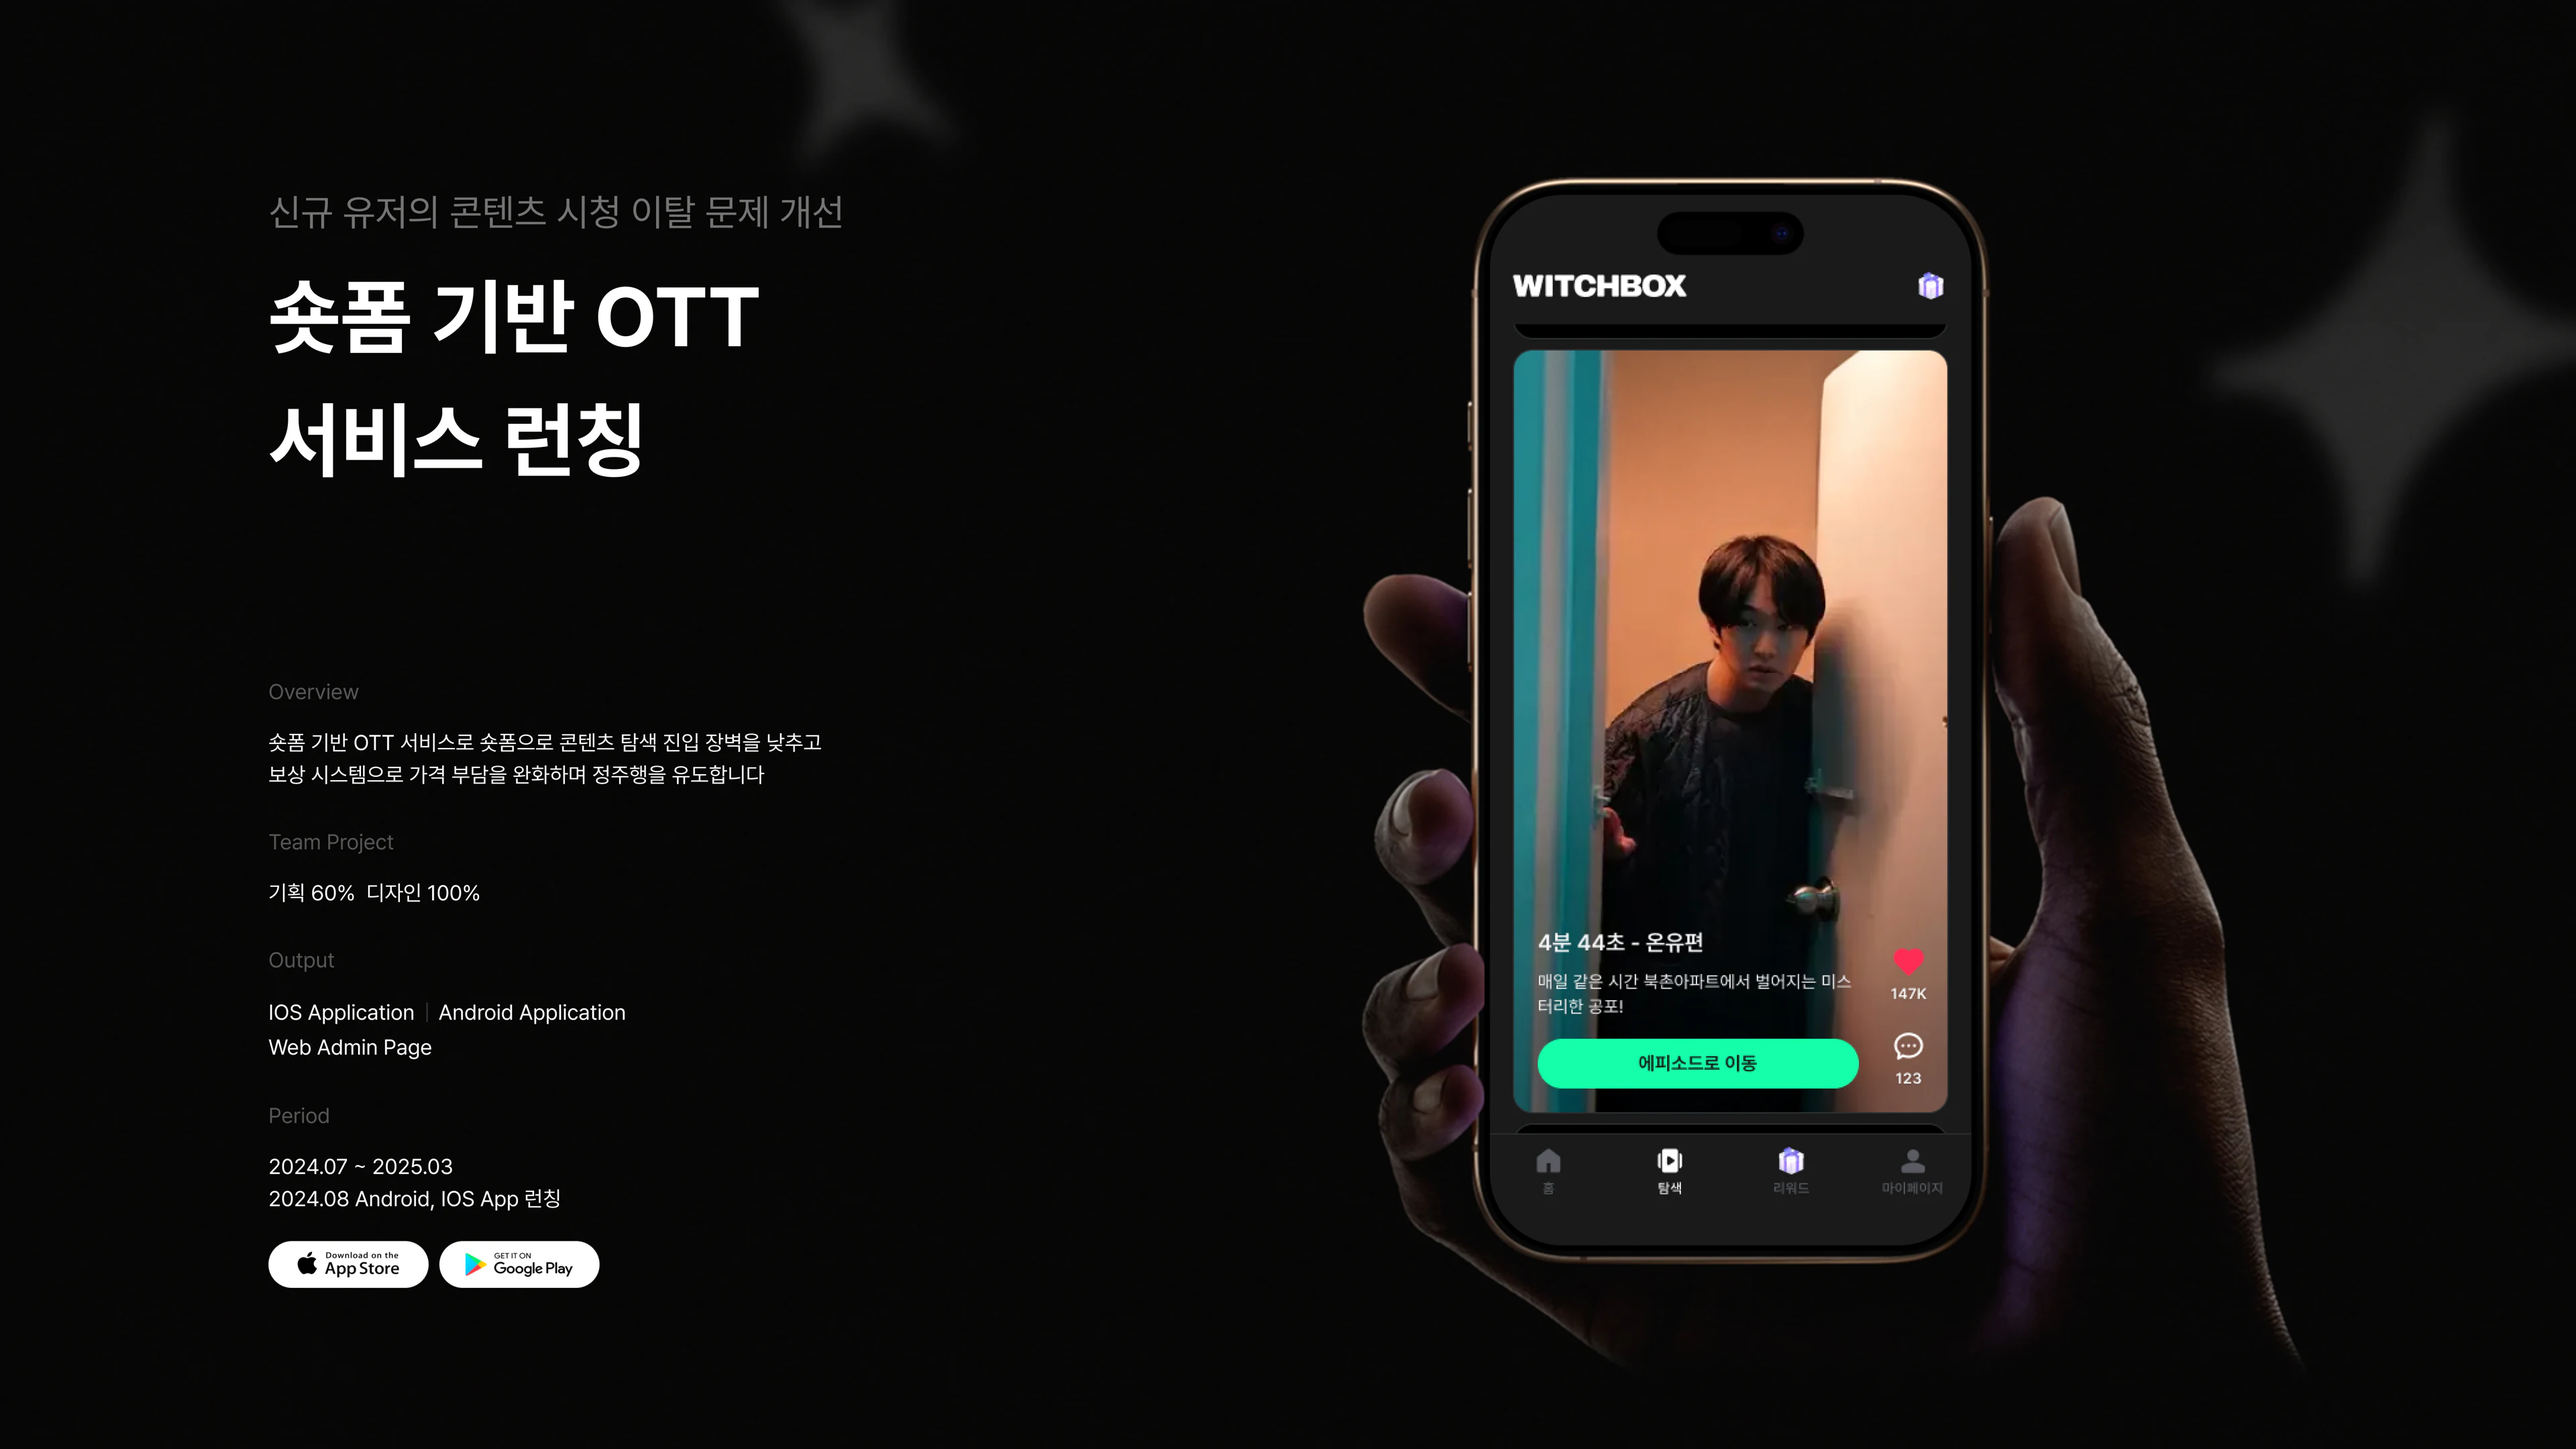
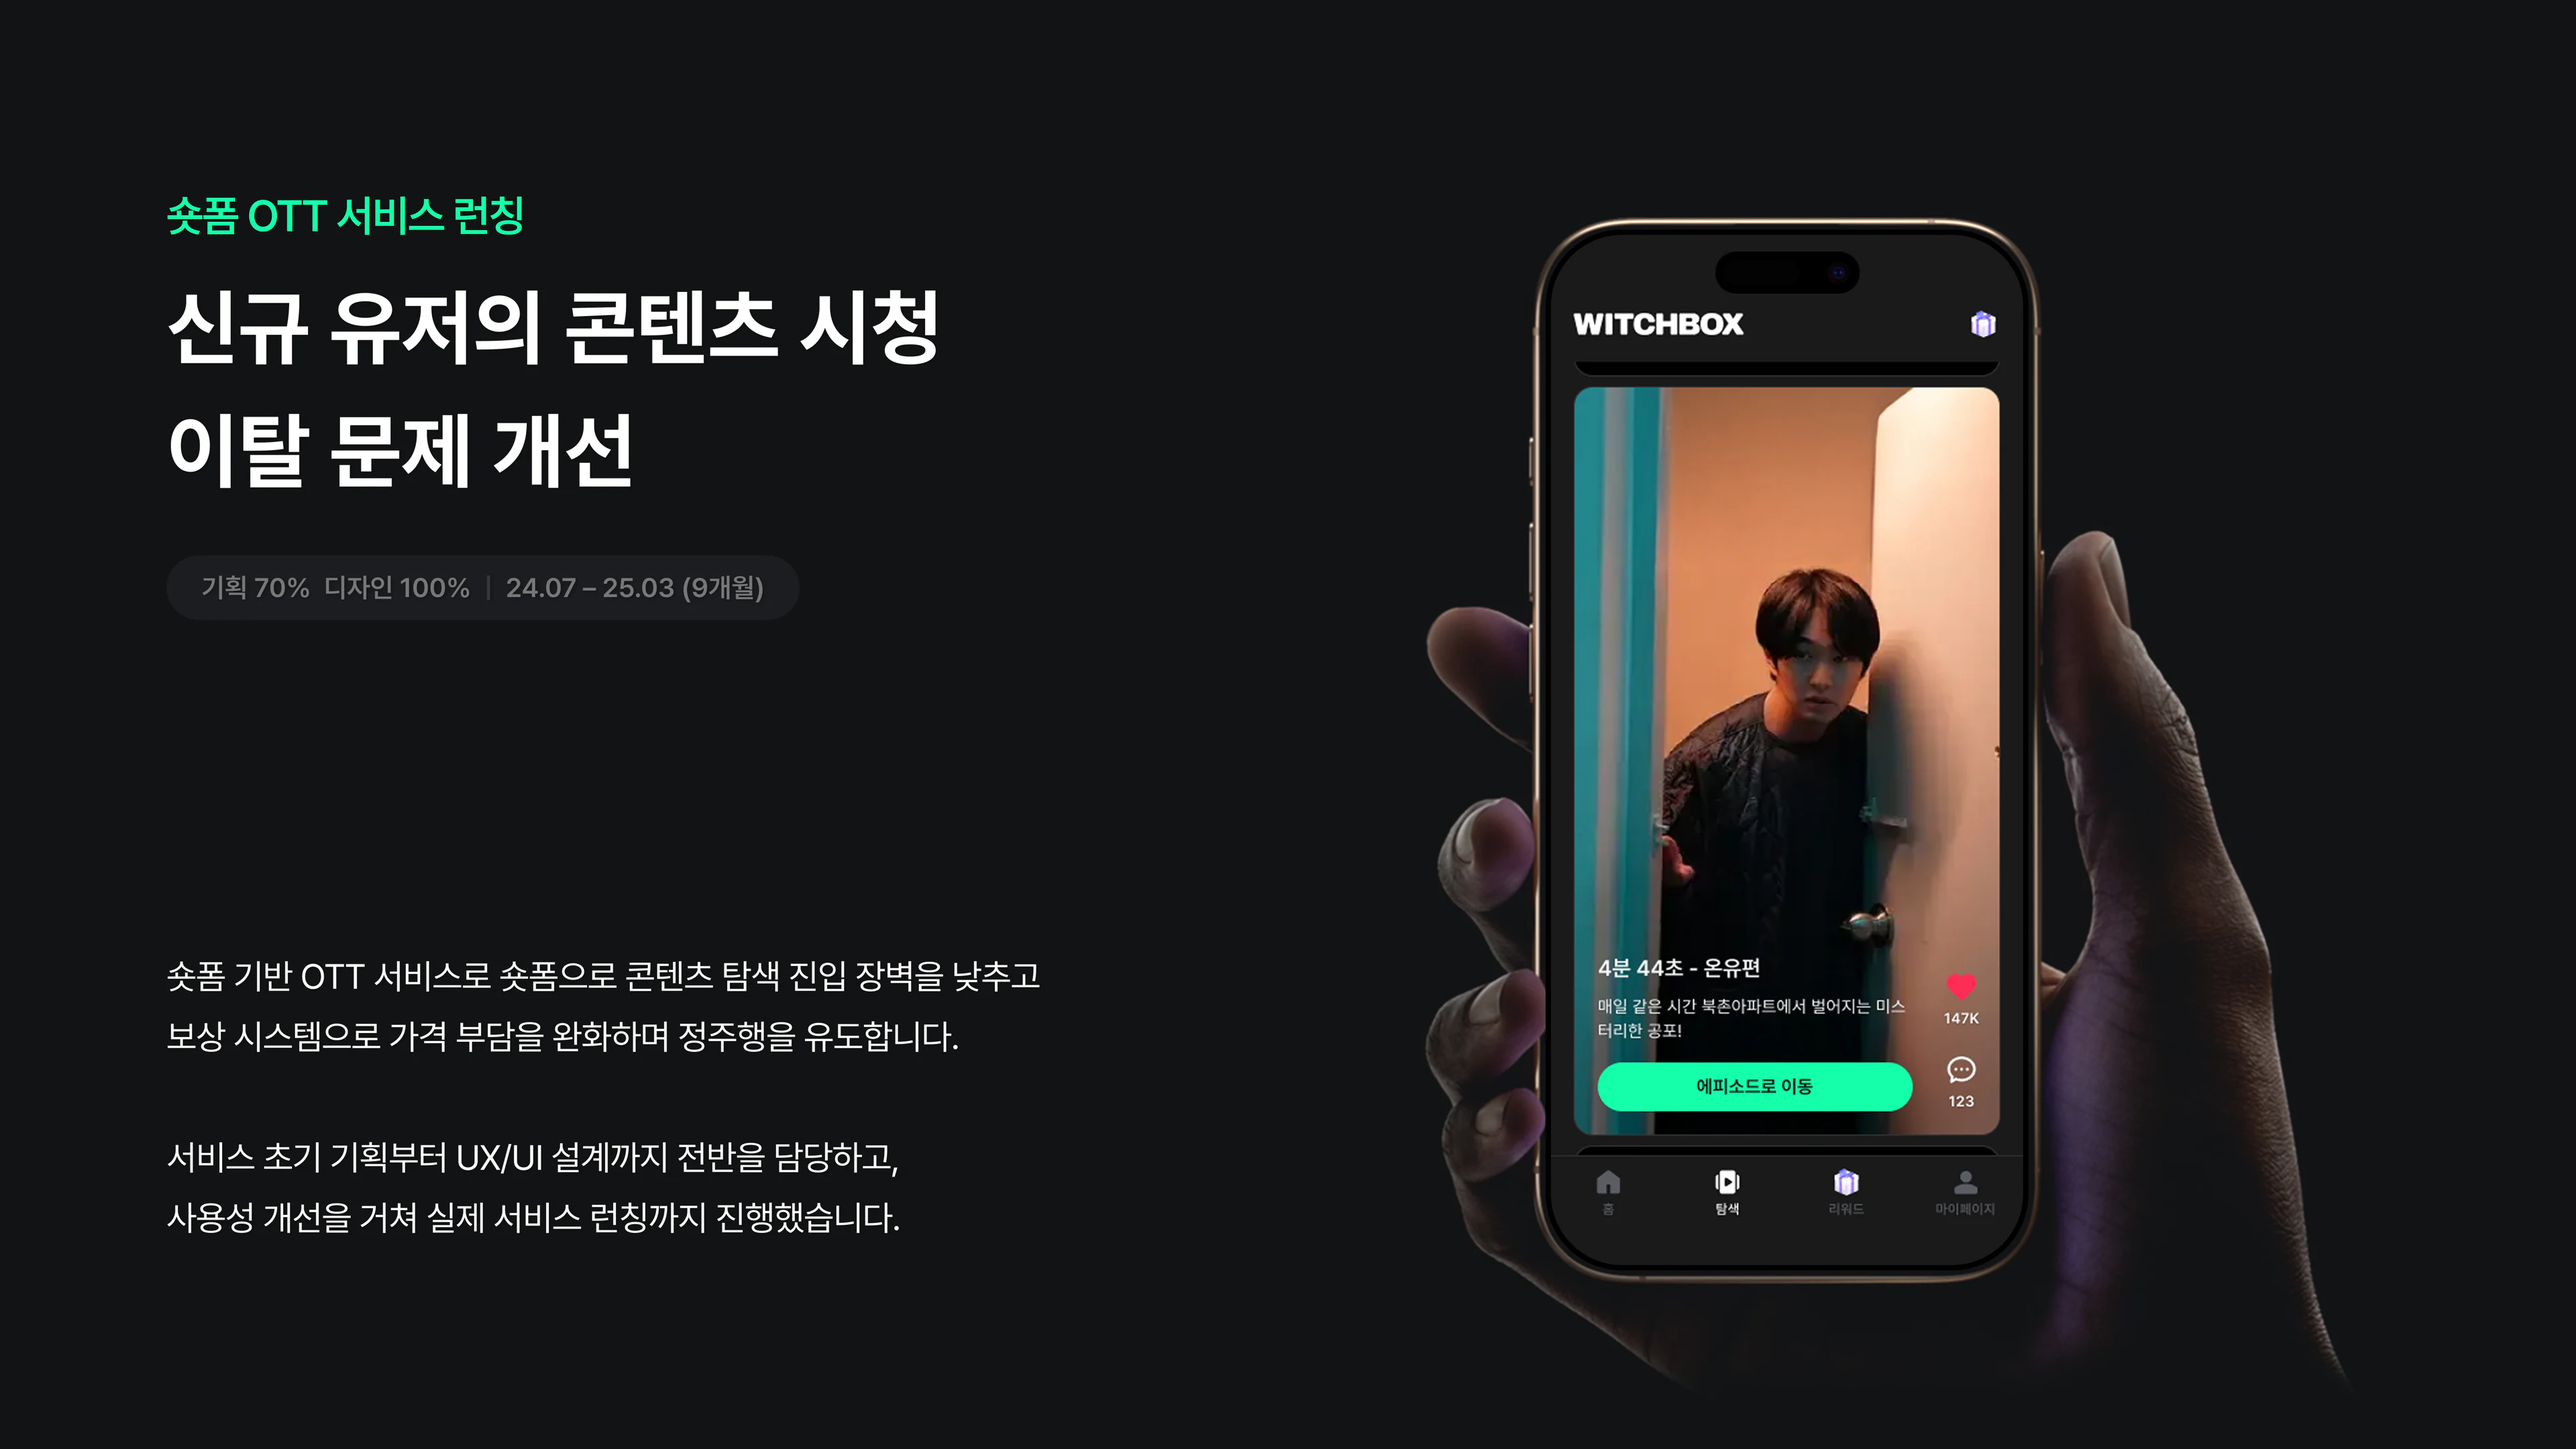
01·02·03 영역 1번 슬라이드를 신규 PNG 기준으로 교체
- 새로 받은 7680x4320 PNG 를 3840px WebP(q88, sharp_yuv) 로 변환해 교체
- 변환 손실은 원본 PNG 대비 0.008% 이하로 확인
- 나머지 슬라이드(01:21 / 02:18 / 03:20 / 04:33장)와 레이아웃은 손대지 않음
- 동일 파일명이라 ?v= 쿼리를 20261007e 로 올려 캐시 무효화

diff --git a/index.html b/index.html
@@ -26,7 +26,7 @@
 <link rel="preconnect" href="https://fonts.gstatic.com" crossorigin>
 <link href="https://fonts.googleapis.com/css2?family=Rethink+Sans:wght@500;600;700&family=Figtree:wght@400&family=Playfair+Display:wght@400;500&display=swap" rel="stylesheet">
 <link rel="stylesheet" href="https://cdn.jsdelivr.net/gh/orioncactus/pretendard@v1.3.9/dist/web/variable/pretendardvariable-dynamic-subset.min.css">
-<link rel="stylesheet" href="assets/css/styles.css?v=20261007d">
+<link rel="stylesheet" href="assets/css/styles.css?v=20261007e">
 </head>
 <body>
 
@@ -94,7 +94,7 @@
     <!-- ---------- HERO — Figma 원본 전체를 PNG 한 장으로 표시 ---------- -->
     <section class="hero full-bleed" id="home" aria-label="표지">
       <img class="hero__cover"
-           src="assets/img/main-cover.png?v=20261007d"
+           src="assets/img/main-cover.png?v=20261007e"
            alt="2026 Portfolio — Product Design"
            fetchpriority="high"
            decoding="async">
@@ -102,13 +102,13 @@
 
     <!-- ---------- RESUME / 이력서 ---------- -->
     <section class="resume full-bleed" id="profile">
-      <img src="assets/img/resume.png?v=20261007d" alt="신동주 이력서">
+      <img src="assets/img/resume.png?v=20261007e" alt="신동주 이력서">
     </section>
 
     <!-- ---------- INDEX — 완성 PNG 1장 + 투명 클릭 영역 ---------- -->
     <section class="index full-bleed" id="index" aria-label="프로젝트 목차">
       <div class="index__frame">
-        <img class="index__cover" src="assets/img/index.png?v=20261007d"
+        <img class="index__cover" src="assets/img/index.png?v=20261007e"
              alt="Index — 01 학원 ERP 서비스 고도화, 02 시니어 AI 케어 서비스 기획, 03 숏폼 OTT 서비스 런칭, 04 케이크 주문 서비스 구축"
              width="7680" height="4320" decoding="async">
         <a class="index__hit index__hit--01" href="#project-01" aria-label="학원 ERP 서비스 고도화 프로젝트로 이동"></a>
@@ -169,6 +169,6 @@
   </div>
 </div>
 
-<script src="assets/js/main.js?v=20261007d"></script>
+<script src="assets/js/main.js?v=20261007e"></script>
 </body>
 </html>

diff --git a/assets/js/main.js b/assets/js/main.js
@@ -70,7 +70,7 @@
      (CSS/JS 의 ?v= 와 같은 역할)
      경로 자체에는 붙이지 않는다 — 확장자 추출이나 존재 확인이 쿼리에
      오염되면 안 되므로, <img src> 에 실을 때만 versioned() 로 감싼다. */
-  var ASSET_VERSION = '20261007d';
+  var ASSET_VERSION = '20261007e';
   function slidePath(key, n, ext) { return 'assets/slides/' + key + '/' + pad(n) + '.' + ext; }
   function versioned(src) { return src + '?v=' + ASSET_VERSION; }
 
